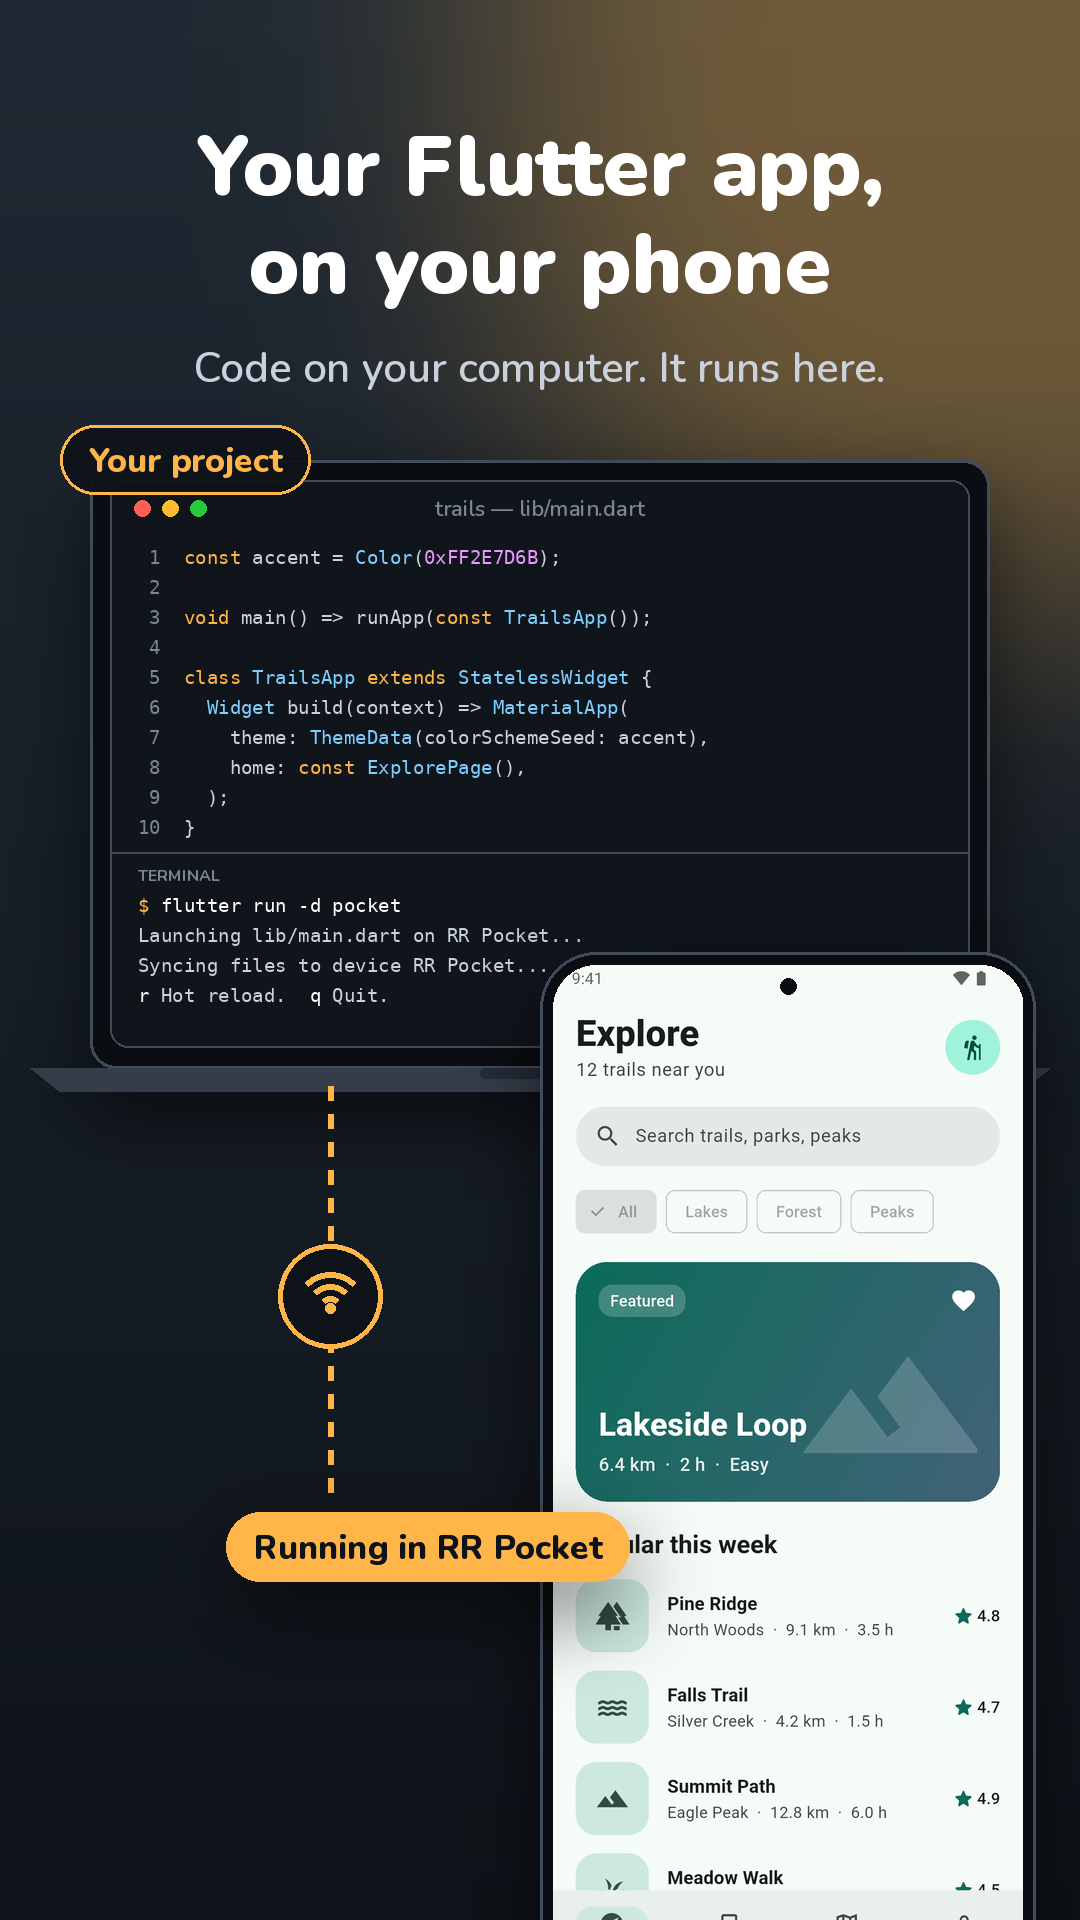
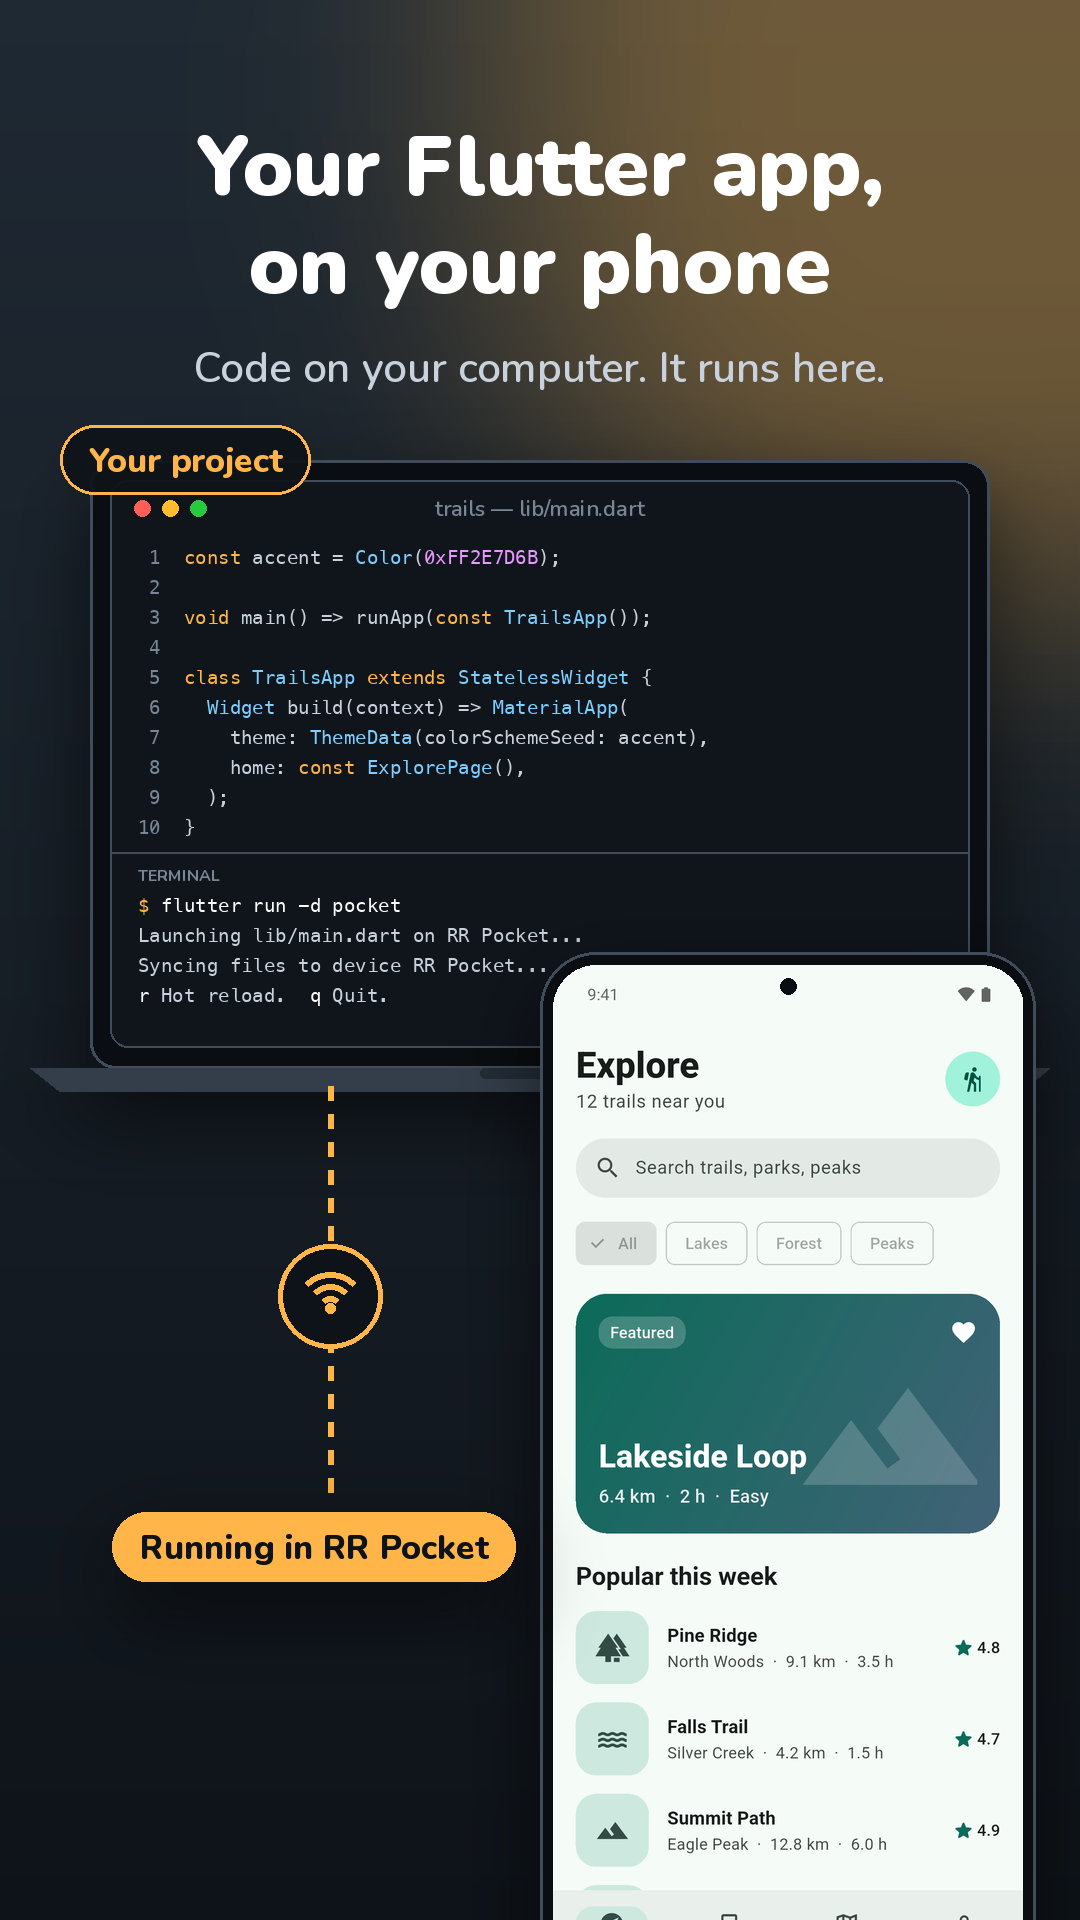
feat: new Play graphics: pairing, 29 plugins, and running from Lumide
Captured on an emulator (Android 15, Pixel 7 screen), with a real
flutter run -d pocket of the trails demo and a hot reload:

- 2: installing the pocket command and pairing, with the code the
  phone showed (the capture keeps it in pairing.json); the phone no
  longer hidden by the terminal.
- 5: the card listing the 29 plugins, scrolled to by measuring the
  screen rather than flinging.
- 6, new: running from Lumide, drawn in its Ailurus Dark colours.
- 1, 2: the overlaps fixed; terminals solid.

diff --git a/tool/make_store_assets.py b/tool/make_store_assets.py
@@ -1,5 +1,6 @@
 """Composes the Play listing's graphics from store/captures/ into store/play/:
-five phone screenshots (1080x1920) and the feature graphic (1024x500).
+the phone screenshots (1080x1920) and the feature graphic (1024x500). The
+sixth draws Lumide, in its Ailurus Dark theme, running the demo on RR Pocket.
 
 Every shot that shows the demo app also shows where it comes from (the
 project on a computer, the command that runs it) and says it is the
@@ -8,15 +9,19 @@ app.
 
 Usage: python3 tool/make_store_assets.py   (needs Pillow; run the capture first)
 """
+import json
+import os
 from pathlib import Path
 
 from PIL import Image, ImageDraw, ImageFilter, ImageFont
 
 ROOT = Path(__file__).resolve().parent.parent
-CAPTURES = ROOT / "store/captures"
-OUT = ROOT / "store/play"
+# Overridable to preview the layout with stand-in captures.
+CAPTURES = Path(os.environ.get("RR_CAPTURES", ROOT / "store/captures"))
+OUT = Path(os.environ.get("RR_PLAY", ROOT / "store/play"))
 FONTS = ROOT / "app/fonts"
-MONO = "/usr/share/fonts/truetype/dejavu/DejaVuSansMono.ttf"
+# DejaVu Sans Mono on Linux, Menlo (drawn from it) on macOS.
+MONOS = ["/usr/share/fonts/truetype/dejavu/DejaVuSansMono.ttf", "/System/Library/Fonts/Menlo.ttc"]
 
 SLATE = (31, 41, 51)
 NIGHT = (14, 19, 25)
@@ -39,10 +44,12 @@ def font(weight, size):
 
 
 def mono(size):
-    try:
-        return ImageFont.truetype(MONO, size)
-    except OSError:
-        return ImageFont.load_default(size)
+    for path in MONOS:
+        try:
+            return ImageFont.truetype(path, size)
+        except OSError:
+            continue
+    return ImageFont.load_default(size)
 
 
 def capture(name):
@@ -86,7 +93,7 @@ def window(title, width, height, radius=28):
     """A dark desktop window with traffic lights and a title."""
     card = Image.new("RGBA", (width, height), (0, 0, 0, 0))
     draw = ImageDraw.Draw(card)
-    draw.rounded_rectangle((0, 0, width - 1, height - 1), radius=radius, fill=CODE_BG + (250,), outline=EDGE, width=2)
+    draw.rounded_rectangle((0, 0, width - 1, height - 1), radius=radius, fill=CODE_BG + (255,), outline=EDGE, width=2)
     for i, color in enumerate([(255, 95, 86), (255, 189, 46), (39, 201, 63)]):
         draw.ellipse((24 + i * 28, 20, 40 + i * 28, 36), fill=color)
     if title:
@@ -211,7 +218,8 @@ def hero():
     phone_xy = (540, computer_y + computer.height - 140)
     place(canvas, device, phone_xy)
     label = pill("Running in RR Pocket")
-    label_xy = (phone_xy[0] - label.width + 90, phone_xy[1] + 560)
+    # Left of the phone, clear of its screen.
+    label_xy = (phone_xy[0] - label.width - 24, phone_xy[1] + 560)
     link(canvas, 330, computer_y + computer.height - 6, label_xy[1] - 6)
     place(canvas, label, label_xy)
     save(canvas, "1-your-app")
@@ -231,16 +239,22 @@ def link(canvas, x, top, bottom):
 
 
 def pairing():
-    canvas, y = captioned("No Android SDK.\nNo adb.", "Pair once over Wi-Fi. That's the setup.")
-    device = phone(capture("home_light"), 620)
+    """The phone's pairing card, and the two commands that use it, with the
+    address and code the phone showed (capture_store_screens.py saves them)."""
+    shown = json.loads((CAPTURES / "pairing.json").read_text())
+    canvas, y = captioned("No Android SDK.\nNo adb.", "Install, pair once over Wi-Fi. That's the setup.")
+    device = phone(capture("home_light"), 560)
     place(canvas, device, ((1080 - device.width) // 2, y + 70))
-    card, draw = window("Terminal", 980, 200)
+    card, draw = window("Terminal", 980, 250)
     code_lines(draw, [
-        [("$ ", AMBER), ("pocket pair 10.0.2.16 FXSLEDDB", WHITE)],
-        [plain("Paired with RR Pocket.")],
-    ], 28, 74, 25, 52, numbers=False)
-    place(canvas, card, ((1080 - card.width) // 2, 1500))
-    place(canvas, pill("On your computer, once"), (50, 1462), shadow=False)
+        [("$ ", AMBER), ("dart pub global activate rr_pocket", WHITE)],
+        [("$ ", AMBER), (f"pocket pair {shown['address']} {shown['code']}", WHITE)],
+        [plain(f"Paired with RR Pocket at {shown['address']}.")],
+    ], 28, 70, 25, 52, numbers=False)
+    card_y = 1920 - card.height - 90
+    label = pill("On your computer, once")
+    place(canvas, card, ((1080 - card.width) // 2, card_y))
+    place(canvas, label, ((1080 - label.width) // 2, card_y - label.height - 16), shadow=False)
     save(canvas, "2-no-sdk")
 
 
@@ -284,10 +298,105 @@ def reload():
 
 
 def plugins():
-    canvas, y = captioned("26 plugins built in", "Camera, location, notifications, storage.")
+    canvas, y = captioned("29 plugins built in", "Camera, location, notifications, storage.")
     device = phone(capture("plugins_dark"), 640)
     place(canvas, device, ((1080 - device.width) // 2, y + 70))
     save(canvas, "5-plugins")
+
+
+# Lumide's Ailurus Dark theme (lumide/apps/lumide_desktop/assets/themes).
+AIL_PANEL = (23, 27, 30)
+AIL_LINE = (28, 33, 36)
+AIL_BORDER = (20, 24, 26)
+AIL_TEXT = (228, 225, 219)
+AIL_DIM = (116, 131, 139)
+AIL_ORANGE = (214, 93, 46)
+AIL_STRING = (135, 179, 121)
+AIL_CLASS = (216, 162, 94)
+AIL_FUNCTION = (56, 158, 202)
+AIL_PROPERTY = (199, 146, 234)
+
+AILURUS_SOURCE = [
+    [("import ", AIL_ORANGE), ("'package:flutter/material.dart'", AIL_STRING), (";", AIL_TEXT)],
+    [],
+    [("const ", AIL_ORANGE), ("accent = ", AIL_TEXT), ("Color", AIL_CLASS), ("(", AIL_TEXT),
+     ("0xFF2E7D6B", AIL_ORANGE), (");", AIL_TEXT)],
+    [],
+    [("void ", AIL_ORANGE), ("main", AIL_FUNCTION), ("() => ", AIL_TEXT), ("runApp", AIL_FUNCTION),
+     ("(", AIL_TEXT), ("const ", AIL_ORANGE), ("TrailsApp", AIL_CLASS), ("());", AIL_TEXT)],
+    [],
+    [("class ", AIL_ORANGE), ("TrailsApp ", AIL_CLASS), ("extends ", AIL_ORANGE),
+     ("StatelessWidget ", AIL_CLASS), ("{", AIL_TEXT)],
+    [("  Widget ", AIL_CLASS), ("build", AIL_FUNCTION), ("(context) => ", AIL_TEXT),
+     ("MaterialApp", AIL_CLASS), ("(", AIL_TEXT)],
+    [("    theme", AIL_PROPERTY), (": ", AIL_TEXT), ("ThemeData", AIL_CLASS), ("(", AIL_TEXT),
+     ("colorSchemeSeed", AIL_PROPERTY), (": accent),", AIL_TEXT)],
+    [("    home", AIL_PROPERTY), (": ", AIL_TEXT), ("const ", AIL_ORANGE), ("ExplorePage", AIL_CLASS),
+     ("(),", AIL_TEXT)],
+    [("  );", AIL_TEXT)],
+    [("}", AIL_TEXT)],
+]
+
+AILURUS_OUTPUT = [
+    [("$ ", AMBER), ("flutter run -d pocket", AIL_TEXT)],
+    [("Launching ", AIL_DIM), ("lib/main.dart", AIL_ORANGE), (" on RR Pocket...", AIL_DIM)],
+    [("Syncing files to device RR Pocket...", AIL_DIM)],
+    [("App is running.", AIL_TEXT)],
+]
+
+
+def lumide_window(width, height):
+    """The project in Lumide, in its Ailurus Dark colours, drawn like the
+    other windows: the code, then the run on RR Pocket."""
+    card = Image.new("RGBA", (width, height), (0, 0, 0, 0))
+    draw = ImageDraw.Draw(card)
+    draw.rounded_rectangle((0, 0, width - 1, height - 1), radius=28, fill=AIL_PANEL, outline=EDGE, width=2)
+    for i, color in enumerate([(255, 95, 86), (255, 189, 46), (39, 201, 63)]):
+        draw.ellipse((24 + i * 28, 22, 40 + i * 28, 38), fill=color)
+    draw.text((width / 2, 30), "Lumide — trails", font=font("SemiBold", 22), fill=AIL_DIM, anchor="mm")
+    chip_font = font("Bold", 22)
+    chip_w = round(chip_font.getlength("RR Pocket")) + 40
+    chip = (width - chip_w - 22, 12, width - 22, 48)
+    draw.rounded_rectangle(chip, radius=18, fill=AIL_LINE, outline=AMBER, width=3)
+    draw.text(((chip[0] + chip[2]) / 2, 30), "RR Pocket", font=chip_font, fill=AIL_TEXT, anchor="mm")
+    draw.line((0, 60, width, 60), fill=AIL_BORDER, width=2)
+
+    code = mono(21)
+    y = 86
+    for index, line in enumerate(AILURUS_SOURCE):
+        draw.text((58, y), f"{index + 1:>2}", font=code, fill=AIL_DIM, anchor="ra")
+        x = 84
+        for text, color in line:
+            draw.text((x, y), text, font=code, fill=color)
+            x += code.getlength(text)
+        y += 34
+    draw.line((0, y + 10, width, y + 10), fill=AIL_BORDER, width=2)
+    draw.text((28, y + 28), "OUTPUT", font=font("Bold", 16), fill=AIL_DIM)
+    y += 62
+    for line in AILURUS_OUTPUT:
+        x = 28
+        for text, color in line:
+            draw.text((x, y), text, font=mono(20), fill=color)
+            x += mono(20).getlength(text)
+        y += 34
+    return card
+
+
+def lumide():
+    """Running from Lumide: its window, and the app on the phone."""
+    canvas, y = captioned("Or run it\nfrom Lumide", "Pick RR Pocket. Press Run.")
+    window_y = y + 130
+    ide = lumide_window(1000, 710)
+    place(canvas, ide, (40, window_y))
+    label = pill("Your phone, a device", dark=True)
+    # Right-aligned with the window, above its RR Pocket chip.
+    place(canvas, label, (40 + 1000 - label.width, window_y - 84), shadow=False)
+    device = phone(capture("demo"), 380)
+    phone_y = window_y + 600
+    place(canvas, device, (1080 - device.width - 40, phone_y))
+    label = pill("Your app, on RR Pocket")
+    place(canvas, label, (1080 - device.width - 40 - label.width - 24, phone_y + 420))
+    save(canvas, "6-lumide")
 
 
 def feature_graphic():
@@ -323,6 +432,7 @@ pairing()
 command()
 reload()
 plugins()
+lumide()
 feature_graphic()
 # Play wants the icon as a 32-bit PNG.
 Image.open(ROOT / "branding/icon-512.png").convert("RGBA").save(OUT / "icon-512.png")

diff --git a/tool/capture_store_screens.py b/tool/capture_store_screens.py
@@ -1,26 +1,33 @@
 """Captures the raw screens for the Play listing into store/captures/.
 
 Needs a device or emulator with RR Pocket installed and paired
-(pocket pair ...). Sets the display to a 1080x2400 phone and
-a clean status bar while it works, and puts both back after.
+(pocket pair ...), and Pillow. Sets the display to a 1080x2400 phone and
+a clean status bar while it works, and puts both back after. Saves the
+address and code the phone shows in pairing.json, for the terminal drawn
+next to it.
 
 Usage: python3 tool/capture_store_screens.py [device id]   (default emulator-5554)
 """
+import io
 import json
 import os
+import re
 import subprocess
 import sys
 import threading
 import time
 from pathlib import Path
 
+from PIL import Image
+
 ROOT = Path(__file__).resolve().parent.parent
 OUT = ROOT / "store/captures"
 DEMO = ROOT / "store/demo"
 APP = "io.sofluffy.raccoon.runtime.pocket"
 device = sys.argv[1] if len(sys.argv) > 1 else "emulator-5554"
-adb_path = os.path.join(os.environ.get("ANDROID_HOME", os.path.expanduser("~/Android/Sdk")),
-                        "platform-tools/adb")
+SDKS = [os.environ.get("ANDROID_HOME", ""), "~/Android/Sdk", "~/Library/Android/sdk"]
+adb_path = next(path for path in (os.path.join(os.path.expanduser(sdk), "platform-tools/adb") for sdk in SDKS if sdk)
+                if os.path.exists(path))
 
 
 def adb(*args, **kw):
@@ -31,11 +38,55 @@ def shell(command):
     adb("shell", command)
 
 
+def screen():
+    return Image.open(io.BytesIO(adb("exec-out", "screencap", "-p").stdout)).convert("RGB")
+
+
 def capture(name):
     time.sleep(1.5)
-    data = adb("exec-out", "screencap", "-p").stdout
-    (OUT / f"{name}.png").write_bytes(data)
+    screen().save(OUT / f"{name}.png")
     print("captured", name)
+
+
+def save_pairing():
+    """The address and code RR Pocket shows, from its log line."""
+    log = adb("logcat", "-d", "-s", "RRPocket", text=True).stdout
+    found = re.findall(r"pair with: (\S+) (\S+)", log)
+    if not found:
+        sys.exit("RR Pocket logged no pairing line")
+    address, code = found[-1]
+    (OUT / "pairing.json").write_text(json.dumps({"address": address, "code": code}))
+
+
+def differs(a, b):
+    return sum(abs(x - y) for x, y in zip(a, b)) > 18
+
+
+def scroll_to_build_card():
+    """Scrolls the home screen so the card listing the plugins starts just
+    below the status bar, not cut off by it. Slow swipes, so nothing flings;
+    then checks the card's rounded corner, and scrolls on past a cut card."""
+    density = 420 / 160
+    image = screen()
+    background = image.getpixel((10, image.height // 2))  # the page margin
+    left = round(24 * density) + 3  # inside a card's left edge, at its corner
+    tops = [y for y in range(1, image.height)
+            if differs(image.getpixel((540, y)), background)
+            and not differs(image.getpixel((540, y - 1)), background)
+            and not differs(image.getpixel((left, y)), background)]
+    logo, build = tops[0], tops[-1]  # the logo, the last card on screen
+    safe_top = logo - round(48 * density)
+    # Flutter's touch slop (18 dp) is lost from a drag.
+    distance = build - safe_top - round(16 * density) + round(18 * density)
+    shell(f"input swipe 540 1900 540 {1900 - distance} 1500")
+    for _ in range(3):
+        time.sleep(1)
+        image = screen()
+        y = next(y for y in range(safe_top, image.height) if differs(image.getpixel((540, y)), background))
+        if not differs(image.getpixel((left, y)), background):
+            return  # a card's rounded top: nothing cut
+        bottom = next(y2 for y2 in range(y, image.height) if not differs(image.getpixel((540, y2)), background))
+        shell(f"input swipe 540 1900 540 {1900 - (bottom - safe_top) - round(34 * density)} 1500")
 
 
 def demo_status_bar(on):
@@ -111,8 +162,9 @@ demo_status_bar(True)
 try:
     open_pocket(night=False)
     capture("home_light")
+    save_pairing()
     open_pocket(night=True)
-    shell("input swipe 540 1900 540 500 400")
+    scroll_to_build_card()
     capture("plugins_dark")
     open_pocket(night=False)
     run_demo()

diff --git a/store/listing.md b/store/listing.md
@@ -1,7 +1,8 @@
 # Google Play listing
 
 Paste into Play Console → Grow → Store presence → Main store listing.
-Graphics are in `play/` (remake with `tool/capture_store_screens.py`, then
+Graphics are in `play/`: six screenshots and the feature graphic (remake
+with `tool/capture_store_screens.py` on a paired emulator, then
 `tool/make_store_assets.py`).
 
 ## Before publishing (Simon)
@@ -9,10 +10,6 @@ Graphics are in `play/` (remake with `tool/capture_store_screens.py`, then
 - **Publish the `rr_pocket` package when the listing goes live.** The
   description tells users to run `dart pub global activate rr_pocket`; that
   works only once `desktop/` is on pub.dev.
-- **Remake the graphics.** `2-no-sdk.png` and the home screen captures still
-  show `dart pocket.dart pair`; the app and `tool/make_store_assets.py` now
-  say `pocket pair`. Capture again on a paired emulator
-  (`tool/capture_store_screens.py`), then `tool/make_store_assets.py`.
 - **Host the privacy policy** (`privacy-policy.md`) and give Play its URL.
 - **First upload by hand:** Play's API can't create the app, so the first
   bundle goes up in the Play Console (from the workflow's artifact or
